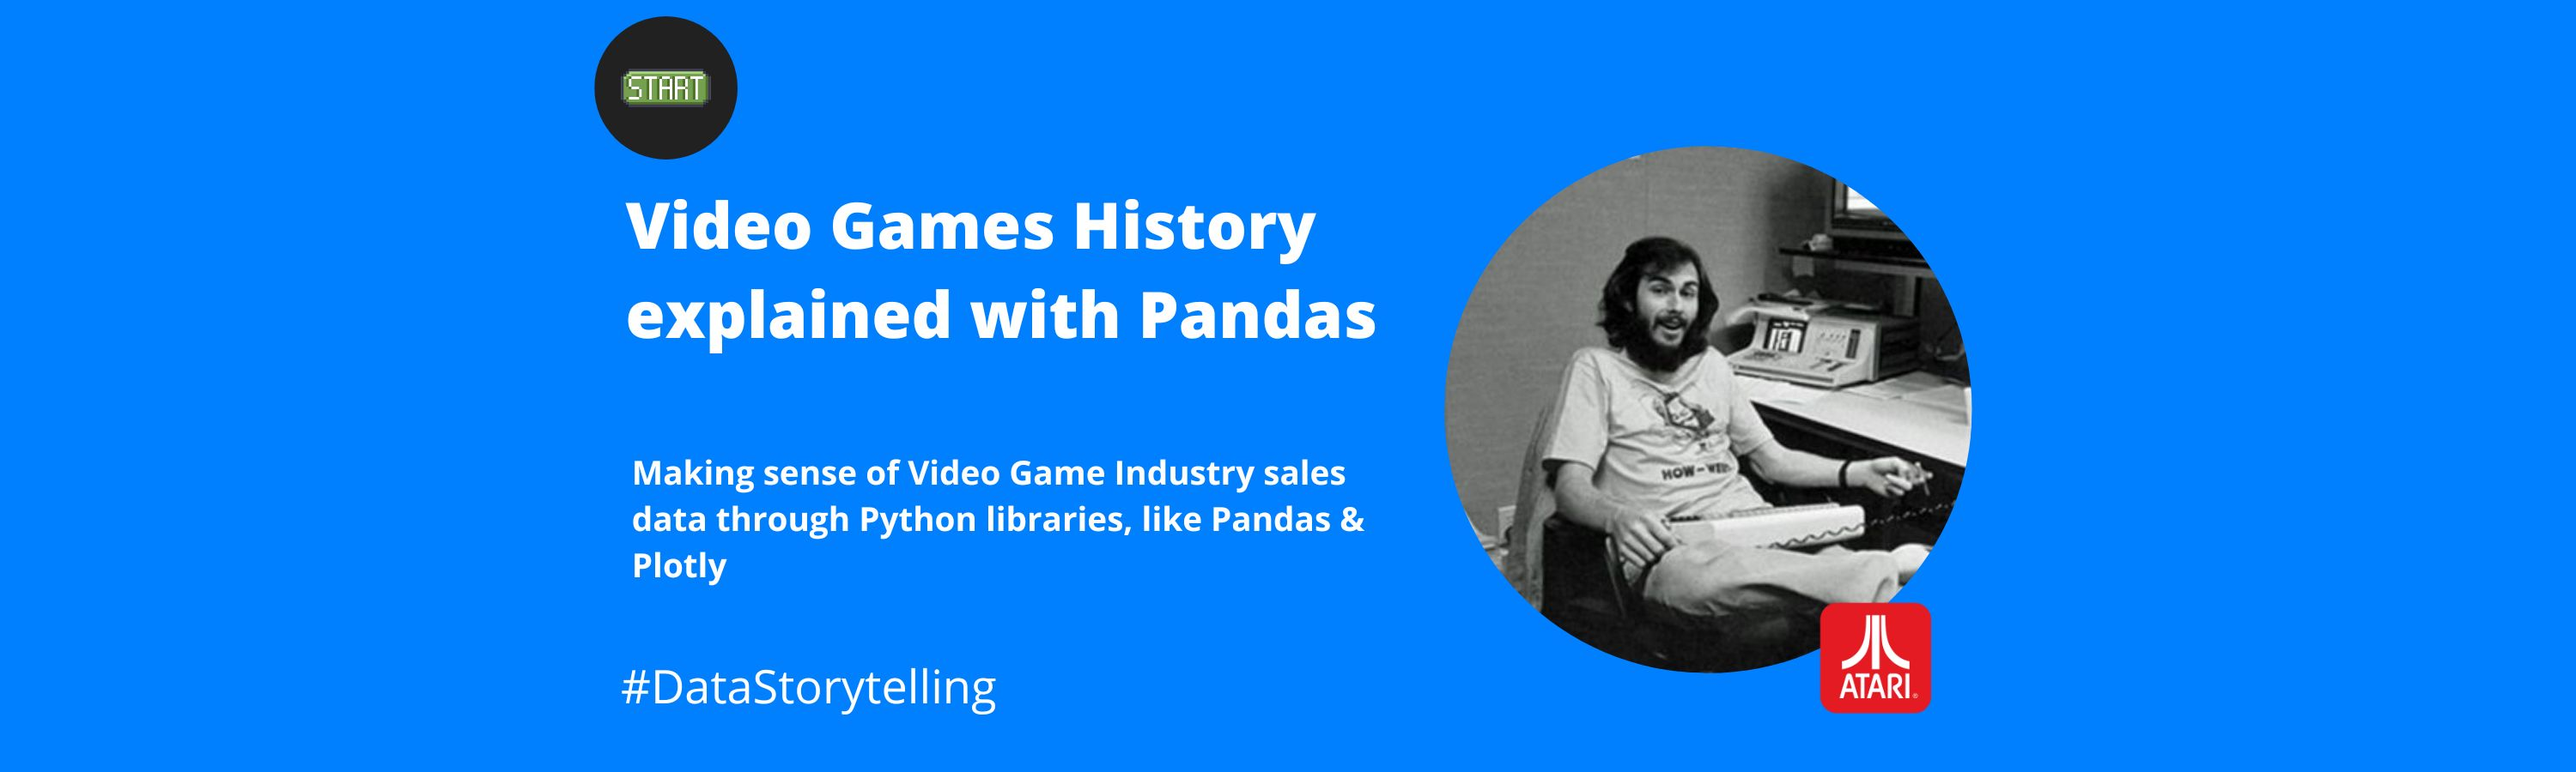
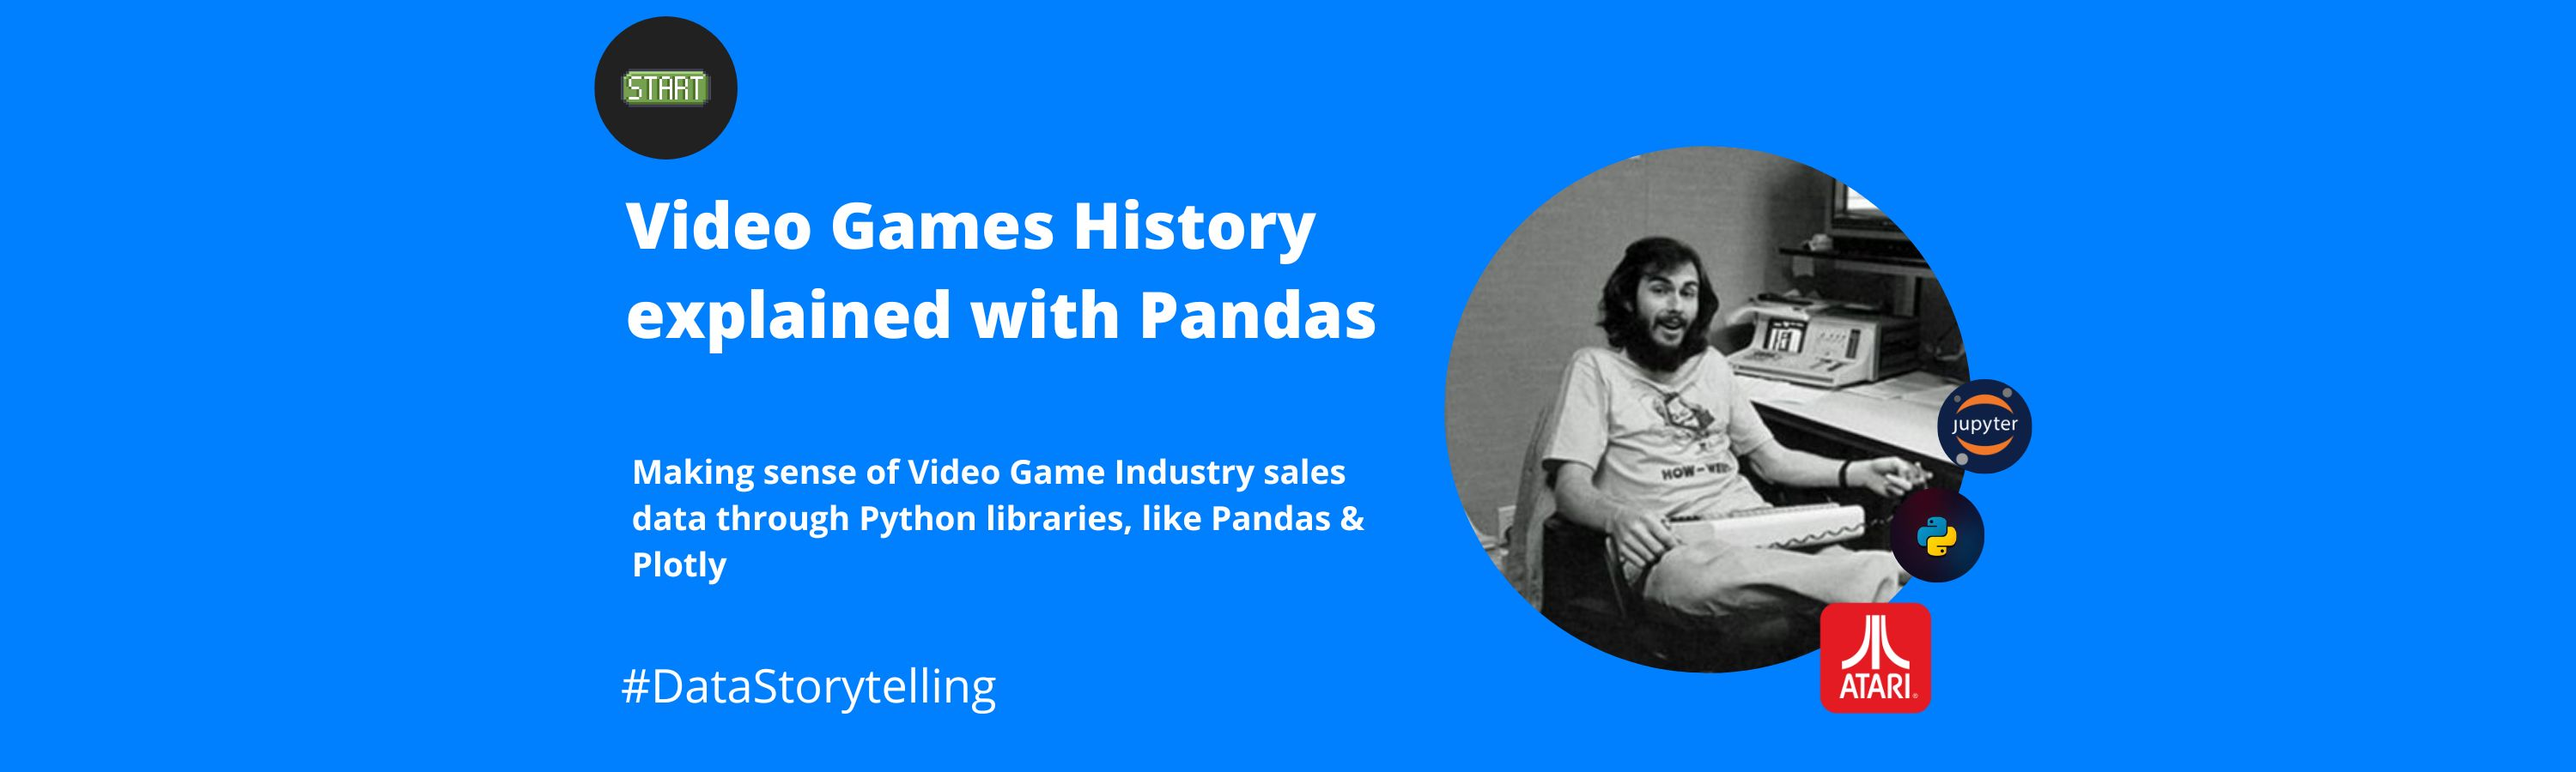
Thumbnails updated

diff --git a/public/index.html b/public/index.html
@@ -26,8 +26,8 @@
         "url": "https:\/\/robguilar.com\/","inLanguage": "en","description": "Welcome to Roberto's portfolio website, through this portal you will be able to see his most recent content \u0026 projects published","image": {
                 "@type": "ImageObject",
                 "url": "https:\/\/robguilar.com\/images\/thumbnail.jpg",
-                "width":  1522 ,
-                "height":  856 
+                "width":  1835 ,
+                "height":  917 
             },"thumbnailUrl": "https:\/\/robguilar.com\/images\/thumbnail.jpg","license": "This work is developed and posted only under Roberto\u0027s property","name": "Roberto Aguilar"
     }
     </script></head><body data-header-desktop="auto" data-header-mobile="auto"><script>(window.localStorage && localStorage.getItem('theme') ? localStorage.getItem('theme') === 'dark' : ('light' === 'auto' ? window.matchMedia('(prefers-color-scheme: dark)').matches : 'light' === 'dark')) && document.body.setAttribute('theme', 'dark');</script>

diff --git a/public/about/index.html b/public/about/index.html
@@ -32,8 +32,8 @@
         },"image": [{
                             "@type": "ImageObject",
                             "url": "https:\/\/robguilar.com\/images\/thumbnail.jpg",
-                            "width":  1522 ,
-                            "height":  856 
+                            "width":  1835 ,
+                            "height":  917 
                         }],"genre": "page","wordcount":  1082 ,
         "url": "https:\/\/robguilar.com\/about\/","datePublished": "2021-08-02T11:04:49+08:00","dateModified": "2021-08-02T11:04:49+08:00","license": "This work is developed and posted only under Roberto's property","publisher": {
             "@type": "Organization",
